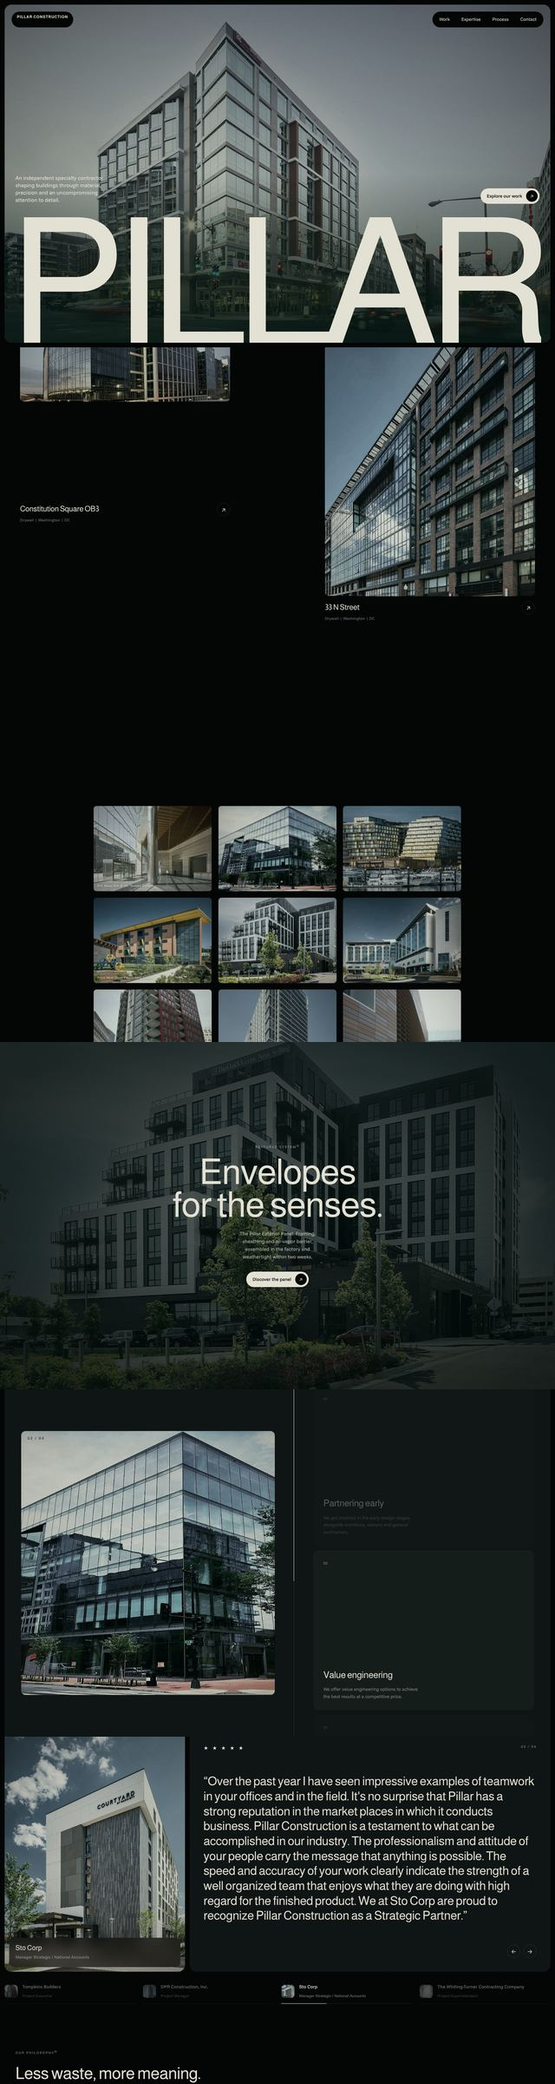
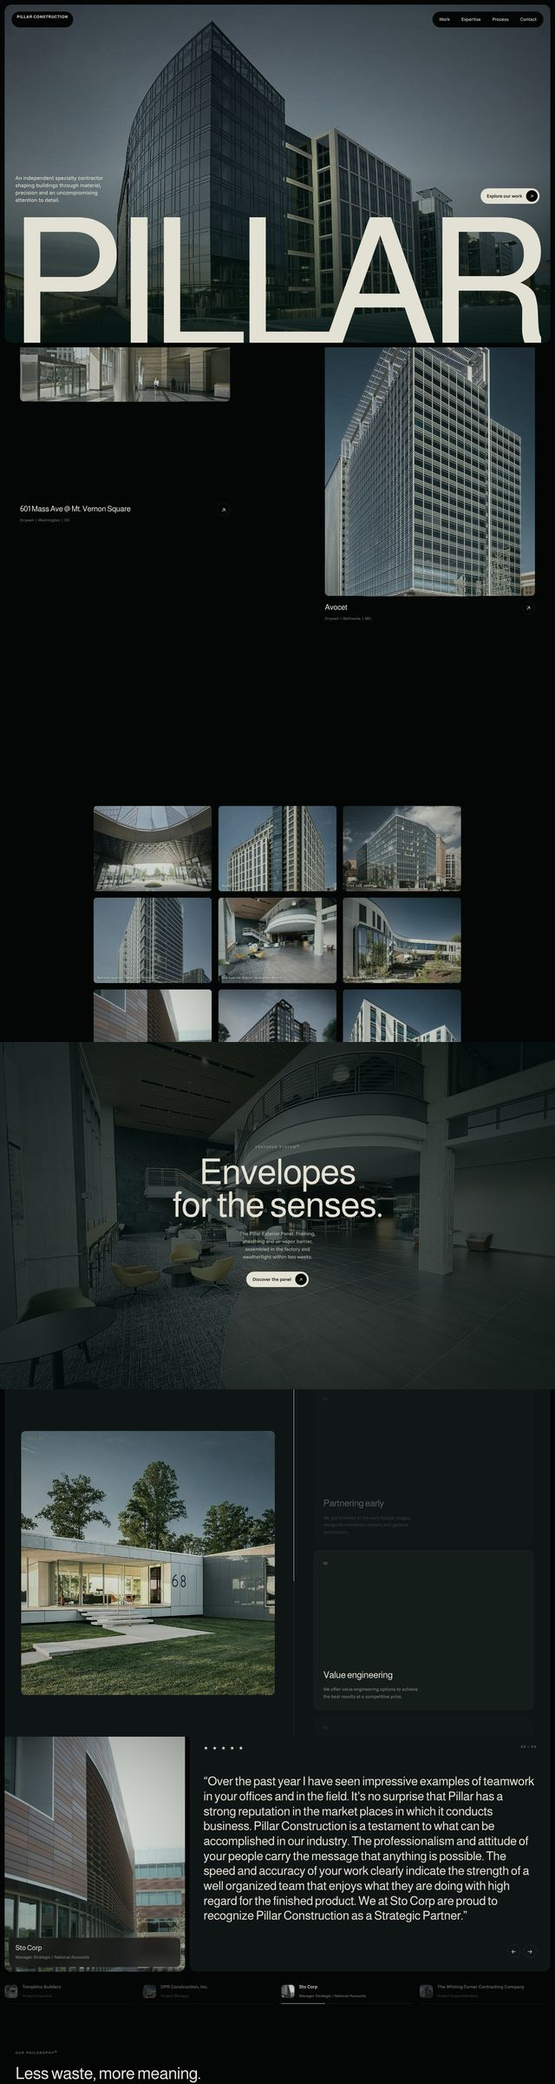
Use one curated photo set across all six options
Twenty minimal, high-resolution project photos chosen from the style picker
(sky verticals and interiors weighted first) plus the stair atrium. Galleries
take rotated slices of the set; service photos and heroes come from it too.

Claude-Session: https://claude.ai/code/session_019PWCajMM1o9e1Z4tehWbBf

diff --git a/02-verdigris.html b/02-verdigris.html
@@ -175,7 +175,7 @@ h1,h2,h3{margin:0;font-family:var(--disp);font-weight:400;text-wrap:balance;lett
 <main id="top">
   <section class="hero wrap">
     <div class="hcard">
-      <div class="bg"><img id="hbg" data-g="assets/img/p/V12-055D.jpg" data-eager alt="Hilton Garden Inn, West End"></div>
+      <div class="bg"><img id="hbg" data-g="assets/img/p/V17-004D.jpg" data-eager alt="Hilton Garden Inn, West End"></div>
       <div class="top"><span class="tag">PILLAR CONSTRUCTION</span><nav class="menu" aria-label="Main"><a href="#work">Work</a><a href="#expertise">Expertise</a><a href="#process">Process</a><a href="#contact">Contact</a></nav></div>
       <div class="mid"><p data-r="up">An independent specialty contractor shaping buildings through material, precision and an uncompromising attention to detail.</p><a class="pill" href="#work" data-mag="10">Explore our work <i>↗</i></a></div>
       <h1 class="word" aria-label="Pillar"><span>P</span><span>I</span><span>L</span><span>L</span><span>A</span><span>R</span></h1>
@@ -241,7 +241,7 @@ h1,h2,h3{margin:0;font-family:var(--disp);font-weight:400;text-wrap:balance;lett
   <section class="wrap" id="contact">
     <div class="cta">
       <div class="ccard"><div><div class="lab">Let's talk<sup>©</sup></div><h2 data-split="lines">Let's build something extraordinary.</h2></div><div><p>Every meaningful building begins with a conversation.</p><a class="pill" href="#foot" data-mag="10">Start the project <i>↗</i></a></div></div>
-      <div class="cimg" data-m="unveil zoomout" data-dir="left"><img data-g="assets/img/p/V16-046D.jpg" alt=""></div>
+      <div class="cimg" data-m="unveil zoomout" data-dir="left"><img data-g="assets/img/p/V13-007D.jpg" alt=""></div>
     </div>
     <footer class="foot" id="foot">
       <div class="cols">
@@ -281,14 +281,14 @@ $('#lit').innerHTML=$('#lit').textContent.split(' ').map(w=>`<span class="w">${w
 gsap.to('#lit .w',{opacity:1,stagger:.06,ease:'none',scrollTrigger:{trigger:'#lit',start:'top 80%',end:'bottom 40%',scrub:true}});
 
 /* works */
-const WK=pick(['V17-004D','V16-018D','The_Westerly_Waterfront_1','V18-012','V14-041','The_Wharf_1']);
+const WK=pick(['V13-007D', '8521Rt', 'V18-002R', '7655Rt', 'The_Westerly_Waterfront_1', 'V17-007R']);
 $('#works').innerHTML=WK.map((p,i)=>`<button class="wk w${i+1}" data-lb="${p.id}" data-cursor="View"><div class="ph" data-m="unveil drift" data-dir="${['up','left','up','right','up','left'][i]}" data-delay="${(i%2)*.12}">${I(img(p.img),1200,p.n)}</div><div class="row"><div><h3>${esc(p.n)}</h3><small>${svcShort[p.s]}  |  ${esc(p.c)}  |  ${esc(p.st)}</small></div><span class="circ">↗</span></div></button>`).join('');
 
 /* each work drifts at its own pace and leans with the scroll speed */
 $$('#works .wk').forEach((w,i)=>{w.dataset.skew=.6;gsap.fromTo(w,{y:[40,120,60,140,30,90][i]},{y:-[40,120,60,140,30,90][i],ease:'none',scrollTrigger:{trigger:w,start:'top bottom',end:'bottom top',scrub:true}})});
 
 /* grid zoom: nine projects; the centre frame (the Exterior Panel) grows until it fills the screen, then the story lands on it */
-const GZ=pick(['V13-007D','V16-022','The_Wharf_1','V18-005R','EP_003','V17-030R','V14-025D','V16-035D','V12-026']);
+const GZ=pick(['The_Westerly_Waterfront_1', 'V17-007R', 'D06-014', 'V16-035D', 'Institute_for_Digital_Innovation_1', '8302Rt', 'V12-026', 'V16-047', 'College_Park_City_Hall_1']);
 $('#gz').innerHTML=GZ.map((p,i)=>`<button class="t ${i===4?'c':''}" data-lb="${p.id}" data-cursor="View">${I(img(p.img),i===4?0:700,p.n)}<span>${esc(p.n)}</span></button>`).join('');
 (()=>{const g=$('#gz'),c=g.children[4],others=[...g.children].filter((x,i)=>i!==4);gsap.set(g,{clearProps:'transform'});gsap.set(g,{xPercent:-50,yPercent:-50});
  const S=()=>Math.max(innerWidth/c.offsetWidth,innerHeight/c.offsetHeight)*1.02;
@@ -306,15 +306,15 @@ $('#gz').innerHTML=GZ.map((p,i)=>`<button class="t ${i===4?'c':''}" data-lb="${p
   .to({},{duration:.15});})();
 
 /* expertise cards: services with scope checklists */
-$('#egrid').innerHTML=D.services.slice(0,4).map((s,i)=>`<article class="ecard" data-r="up" style="--d:${i*.08}s"><div><div class="ic">${I(img(s.hero,'h'),200)}</div><h3>${esc(s.title.split(' / ')[0])}.</h3></div><ul>${s.scopes.slice(0,4).map(x=>`<li>${esc(x)}</li>`).join('')}</ul></article>`).join('');
+$('#egrid').innerHTML=D.services.slice(0,4).map((s,i)=>`<article class="ecard" data-r="up" style="--d:${i*.08}s"><div><div class="ic">${I(PX.svcImg(s),200)}</div><h3>${esc(s.title.split(' / ')[0])}.</h3></div><ul>${s.scopes.slice(0,4).map(x=>`<li>${esc(x)}</li>`).join('')}</ul></article>`).join('');
 
 $('.ecard.img').dataset.lb=PX.byImg['V13-007D'].id;
 
 /* process: sticky image swaps with active step */
-const STEPS=[['Partnering early','We get involved in the early design stages, alongside architects, owners and general contractors.','V13-030D'],
- ['Value engineering','We offer value engineering options to achieve the best results at a competitive price.','V16-022'],
- ['Planning the work','Estimators and project managers develop a plan, a sequence and a schedule the field can trust.','V17-012R'],
- ['Executing safely','Our crews deliver quality work safely, on time and under budget, from the slab edge to the punch list.','V18-043R']];
+const STEPS=[['Partnering early','We get involved in the early design stages, alongside architects, owners and general contractors.','8521Rt'],
+ ['Value engineering','We offer value engineering options to achieve the best results at a competitive price.','V18-002R'],
+ ['Planning the work','Estimators and project managers develop a plan, a sequence and a schedule the field can trust.','7655Rt'],
+ ['Executing safely','Our crews deliver quality work safely, on time and under budget, from the slab edge to the punch list.','The_Westerly_Waterfront_1']];
 $('#stick').innerHTML=STEPS.map((s,i)=>`<img data-g="${img(s[2])}" data-eager alt="">`).join('')+'<span class="sn" id="snum">01 / 04</span>';
 const swS=PX.swapper($('#stick'));
 $('#slist').innerHTML=STEPS.map((s,i)=>`<div class="st ${i?'':'on'}"><span class="n">0${i+1}</span><div><h3>${s[0]}</h3><p>${s[1]}</p></div></div>`).join('');
@@ -323,7 +323,7 @@ ScrollTrigger.create({trigger:'#steps',start:'top 50%',end:'bottom 70%',onUpdate
 gsap.set('#rail',{height:'var(--p)'});
 
 /* voices: tabs with auto-advance progress */
-const V=[1,4,26,30].map(i=>D.testimonials[i]);const VP=pick(['V14-025D','V16-035D','V18-020','VA_Hostpital_Fredericksburg_1']);let vi=0,vt;
+const V=[1,4,26,30].map(i=>D.testimonials[i]);const VP=pick(['Institute_for_Digital_Innovation_1', '8302Rt', 'V12-026', 'V16-047']);let vi=0,vt;
 $('#vph').insertAdjacentHTML('afterbegin',VP.map((p,i)=>I(img(p.img),900)).join(''));const swV=PX.swapper($('#vph'));
 $('#tabs').innerHTML=V.map((v,i)=>`<button type="button"><span class="av">${I(img(VP[i].img),120)}</span><span><b>${esc(v.by)}</b><small>${esc(v.role)}</small></span></button>`).join('');
 function showV(i){vi=(i+V.length)%V.length;const q=$('#vq');q.classList.add('out');setTimeout(()=>{q.textContent='“'+V[vi].q+'”';q.classList.remove('out')},350);

diff --git a/03-filmstrip.html b/03-filmstrip.html
@@ -152,7 +152,7 @@ textarea{min-height:90px;resize:vertical}
 
 <main id="top">
   <section class="hero">
-    <div class="bg"><img id="hbg" data-g="assets/img/p/V16-038.jpg" data-eager alt="Residential building at dusk"></div>
+    <div class="bg"><img id="hbg" data-g="assets/img/p/V17-007R.jpg" data-eager alt="Residential building at dusk"></div>
     <div class="t"><h1 data-split="lines">PILLAR<small>CONSTRUCTION.</small></h1></div>
     <div class="meta" data-r="fade" style="--d:.6s"><span>BASED IN ALEXANDRIA, VA</span><span>//</span><span>SINCE 1995</span></div>
     <p class="blurb" data-r="up" style="--d:.7s">Pillar builds interiors and envelopes that feel considered, look timeless, and work for the people inside them.</p>
@@ -193,9 +193,9 @@ textarea{min-height:90px;resize:vertical}
   <section class="ct wrap" id="contact">
     <div class="left">
       <div class="box"><div class="mono">Email</div><b id="em"></b></div>
-      <div class="im" data-m="unveil drift" data-dir="right"><img data-g="assets/img/p/V17-022.jpg" data-gw="900" alt=""></div>
+      <div class="im" data-m="unveil drift" data-dir="right"><img data-g="assets/img/p/7655Rt.jpg" data-gw="900" alt=""></div>
       <div class="box"><div class="mono">Phone</div><b id="ph"></b></div>
-      <div class="im" data-m="unveil drift" data-dir="left" data-delay=".1"><img data-g="assets/img/p/V16-003.jpg" data-gw="900" alt=""></div>
+      <div class="im" data-m="unveil drift" data-dir="left" data-delay=".1"><img data-g="assets/img/p/The_Westerly_Waterfront_1.jpg" data-gw="900" alt=""></div>
     </div>
     <div>
       <h2 data-split="lines">Let's work together.</h2>
@@ -237,7 +237,7 @@ gsap.to('#hbg',{yPercent:15,scale:1.12,ease:'none',scrollTrigger:hT});
 gsap.to('.hero .t',{yPercent:-70,letterSpacing:'.02em',opacity:.15,ease:'none',scrollTrigger:hT});
 
 /* filmstrip: scroll is the playhead. Frames swell continuously as they pass it; each photo pans inside its frame */
-const FS=pick(['V16-022','The_Wharf_1','V17-004D','V13-007D','V16-046D','V18-002R','V17-030R','EP_003','V16-018D','V14-041','V18-012','The_Westerly_Waterfront_1','V12-026','Institute_for_Digital_Innovation_1','V17-014D','V16-047','8302Rt','V19-019R','V18-005R','V17-009R']);
+const FS=pick(['7655Rt', 'The_Westerly_Waterfront_1', 'V17-007R', 'D06-014', 'V16-035D', 'Institute_for_Digital_Innovation_1', '8302Rt', 'V12-026', 'V16-047', 'College_Park_City_Hall_1', '8621Rt', 'EP_003', 'V19-019R', '8191Rt', 'Oakvile_Inova_1', 'V17-004D', 'Avocet_1', 'V13-007D', '8521Rt', 'V18-002R']);
 $('#strip').innerHTML=FS.map((p,i)=>`<div class="fr" data-i="${i}" data-lb="${p.id}">${I(img(p.img),900,p.n)}<i class="br a"></i><i class="br b"></i><i class="br c"></i><i class="br d"></i></div>`).join('');
 const film=$('#film'),N=FS.length;film.style.height=(N*28+100)+'vh';
 const frs=$$('.fr'),fims=frs.map(f=>f.querySelector('img'));
@@ -270,15 +270,15 @@ addEventListener('resize',()=>layout(pos));
 /* accordion */
 $('#acc').innerHTML=D.services.map((s,i)=>{const n=D.projects.filter(p=>p.s===s.id).length;return `<div class="ai ${i?'':'open'}">
  <button type="button" aria-expanded="${!i}"><h3>${esc(s.title.replace(' / General Contracting','').replace('Exterior Finishes / ',''))}</h3><span class="pm">+</span></button>
- <div class="body"><div><div class="in"><div><p>${esc(s.body[0]||s.short)}</p><ul>${s.scopes.slice(0,6).map(x=>`<li>${esc(x)}</li>`).join('')}</ul><div class="from">PORTFOLIO<b>${n} projects</b></div></div><div class="ph">${I(img(s.hero,'h'),500)}</div></div></div></div></div>`}).join('');
+ <div class="body"><div><div class="in"><div><p>${esc(s.body[0]||s.short)}</p><ul>${s.scopes.slice(0,6).map(x=>`<li>${esc(x)}</li>`).join('')}</ul><div class="from">PORTFOLIO<b>${n} projects</b></div></div><div class="ph">${I(PX.svcImg(s),500)}</div></div></div></div></div>`}).join('');
 $$('.ai>button').forEach(b=>b.onclick=()=>{const it=b.parentElement,o=!it.classList.contains('open');$$('.ai').forEach(x=>{x.classList.remove('open');x.firstElementChild.setAttribute('aria-expanded',false)});if(o){it.classList.add('open');b.setAttribute('aria-expanded',true);
   // the service photo opens with its panel: the frame wipes up while the picture settles
   if(!PX.reduced){const ph=it.querySelector('.ph');ph.animate([{clipPath:'inset(100% 0% 0% 0%)'},{clipPath:'inset(0% 0% 0% 0%)'}],{duration:1100,delay:150,easing:'cubic-bezier(.76,0,.24,1)',fill:'backwards'});
    ph.querySelector('img').animate([{transform:'scale(1.4)'},{transform:'none'}],{duration:1600,delay:150,easing:'cubic-bezier(.16,1,.3,1)',fill:'backwards'})}}});
-$$('.ai .ph').forEach((ph,i)=>{const s=D.services[i],p=PX.byImg[s.gallery[0]]||D.projects.find(x=>x.s===s.id);if(p)ph.dataset.lb=p.id});
+$$('.ai .ph').forEach((ph,i)=>{const s=D.services[i],p=PX.svcP(s)||D.projects.find(x=>x.s===s.id);if(p)ph.dataset.lb=p.id});
 
 /* about columns: infinite opposite drift, boosted by scroll velocity */
-const C1=pick(['V16-012','V12-034','V14-028','V15-012','V16-051D','V13-046','V17-002R','V11-060']),C2=pick(['V14-014','V08-002','Institute_for_Digital_Innovation_1','V13-001D','VA_Hostpital_Fredericksburg_1','V13-007D','V11-027D','M06-010']);
+const C1=pick(['V16-035D', 'Institute_for_Digital_Innovation_1', '8302Rt', 'V12-026', 'V16-047', 'College_Park_City_Hall_1', '8621Rt', 'EP_003']),C2=pick(['V16-047', 'College_Park_City_Hall_1', '8621Rt', 'EP_003', 'V19-019R', '8191Rt', 'Oakvile_Inova_1', 'V17-004D']);
 const fill=(el,L)=>el.innerHTML=[...L,...L].map(p=>`<div class="t">${I(img(p.img),300,p.n)}</div>`).join('');fill($('#c1'),C1);fill($('#c2'),C2);
 $('#stats').innerHTML=[[PX.stats.years,'Years in business'],[PX.stats.projects,'Portfolio projects'],[PX.stats.offices,'Offices']].map(s=>`<div><b data-count="${s[0]}">0</b><span>${s[1]}</span></div>`).join('');
 (()=>{let y1=0,y2=0,v=0;const c1=$('#c1'),c2=$('#c2');PX.lenis?.on('scroll',e=>v=e.velocity);

diff --git a/06-nord.html b/06-nord.html
@@ -159,12 +159,12 @@ h1,h2,h3{margin:0;font-weight:500;letter-spacing:-.04em;text-wrap:balance}
       <p class="txt" data-r="up">Founded in 1995, Pillar is driven by a deep respect for craft and the rhythm of urban building. We focus on interiors and envelopes that enhance city landscapes, combining simplicity, functionality and a durable finish.</p>
       <p class="txt" data-r="up">Guided by <b>Raja Khoury</b> and <b>Mike Chalabi</b>, the team works closely with owners, developers and general contractors to shape the buildings people live and work in.</p>
       <div class="nums" id="nums"></div></div>
-    <div class="col2"><div class="ph a" data-m="unveil drift" data-dir="left"><img data-g="assets/img/p/V13-001D.jpg" data-gw="1000" alt=""></div><div class="ph b" data-m="unveil drift" data-dir="right" data-delay=".15"><img data-g="assets/img/p/V14-014.jpg" data-gw="800" alt=""></div></div>
+    <div class="col2"><div class="ph a" data-m="unveil drift" data-dir="left"><img data-g="assets/img/p/College_Park_City_Hall_1.jpg" data-gw="1000" alt=""></div><div class="ph b" data-m="unveil drift" data-dir="right" data-delay=".15"><img data-g="assets/img/p/8621Rt.jpg" data-gw="800" alt=""></div></div>
   </section>
 
   <section class="facade" aria-label="Statement">
     <div class="stage">
-      <div class="bg" id="fmask"><img id="fbg" data-g="assets/img/p/V16-022.jpg" data-eager alt=""></div><div class="full" id="ffull"><img id="ffimg" data-g="assets/img/p/V16-022.jpg" data-eager alt=""></div><div class="wsh" id="fwsh"></div>
+      <div class="bg" id="fmask"><img id="fbg" data-g="assets/img/p/Oakvile_Inova_1.jpg" data-eager alt=""></div><div class="full" id="ffull"><img id="ffimg" data-g="assets/img/p/Oakvile_Inova_1.jpg" data-eager alt=""></div><div class="wsh" id="fwsh"></div>
       <span class="lbl" id="flbl">Keep scrolling</span>
       <h2 id="fh">Crafting buildings where natural light meets timeless, functional design.</h2>
     </div>
@@ -223,7 +223,7 @@ gsap.registerPlugin(ScrollTrigger);
 $('#mb').onclick=()=>{const o=$('#menu').classList.toggle('open');$('#mb').setAttribute('aria-expanded',o);$('#mb').textContent=o?'CLOSE':'MENU'};$$('#menu a').forEach(a=>a.onclick=()=>{$('#menu').classList.remove('open');$('#mb').textContent='MENU'});
 
 /* hero slideshow */
-const HS=pick(['V16-051D','V17-004D','V16-022']);let hi=0,ht;
+const HS=pick(['College_Park_City_Hall_1', '8621Rt', 'EP_003']);let hi=0,ht;
 $('#hero').insertAdjacentHTML('afterbegin',HS.map((p,i)=>`<div class="hs ${i?'':'on'}" data-lb="${p.id}">${I(img(p.img),0,p.n).replace('<img','<img data-eager')}</div>`).join(''));
 function hs(i){hi=(i+HS.length)%HS.length;$$('.hs').forEach((s,j)=>s.classList.toggle('on',j===hi));$('#hc').textContent=PX.pad(hi+1);$('#ht').textContent=PX.pad(HS.length);$('#hnm').textContent=HS[hi].n;clearTimeout(ht);ht=setTimeout(()=>hs(hi+1),6000)}
 $('#hn').onclick=e=>{e.stopPropagation();hs(hi+1)};hs(0);
@@ -233,7 +233,7 @@ gsap.to('#hero .hs img',{yPercent:12,ease:'none',scrollTrigger:hT});
 gsap.to('#hero h1',{yPercent:-35,letterSpacing:'.01em',ease:'none',scrollTrigger:hT});
 
 /* intro: photos stack into a pile, then lift away */
-(()=>{const S=pick(['V16-022','V18-002R','V13-007D','V17-030R','V12-055D','V14-041']);const box=$('#intro');
+(()=>{const S=pick(['8191Rt', 'Oakvile_Inova_1', 'V17-004D', 'Avocet_1', 'V13-007D', '8521Rt']);const box=$('#intro');
  if(PX.reduced){box.remove();return}
  PX.lenis?.stop();
  box.innerHTML=S.map(p=>`<div class="card"><img src="${img(p.img)}" alt=""></div>`).join('');
@@ -258,13 +258,13 @@ gsap.timeline({defaults:{ease:'none'},scrollTrigger:{trigger:'.facade',start:'to
  .to({},{duration:.13});
 
 /* awards with hover image */
-const AW=D.awards.flatMap(a=>a.items.map(it=>({y:a.y,t:it[0],d:it[1]}))),AIM=pick(['V16-022','V17-004D','V18-002R','V16-018D','EP_003','The_Wharf_1','V17-030R','V13-007D']);
+const AW=D.awards.flatMap(a=>a.items.map(it=>({y:a.y,t:it[0],d:it[1]}))),AIM=pick(['V13-007D', '8521Rt', 'V18-002R', '7655Rt', 'The_Westerly_Waterfront_1', 'V17-007R', 'D06-014', 'V16-035D']);
 $('#arows').innerHTML=AW.map((a,i)=>`<div class="ar ${i>9?'x':''}" data-img="${img(AIM[i%AIM.length].img)}" data-r="up" style="--d:${(i%10)*.04}s"><span>${esc(a.t)}</span><span>${esc(a.d)}</span><span>/ ${a.y}</span></div>`).join('');
 PX.hoverPreview($$('.ar'),r=>r.dataset.img,{dx:120});
 $('#awm').onclick=()=>{const o=$('#awards').classList.toggle('all');$('#awm').textContent=o?'Show fewer':'Show all honours';ScrollTrigger.refresh()};
 
 /* services */
-$('#sph').innerHTML=D.services.map(s=>I(img(s.hero,'h'),1200)).join('');const swP=PX.swapper($('#sph'));
+$('#sph').innerHTML=D.services.map(s=>I(PX.svcImg(s),1200)).join('');const swP=PX.swapper($('#sph'));
 $('#slist').innerHTML=D.services.map((s,i)=>`<div class="sr ${i?'':'on'}" data-i="${i}"><span class="n">/ 0${i+1}</span><h3>${esc(s.title)}</h3><p>${esc(s.short)}</p></div>`).join('');
 let sv=0;const pickR=i=>{if(i===sv)return;sv=i;$$('.sr').forEach((x,j)=>x.classList.toggle('on',j===i));swP(i)};
 $$('.sr').forEach(r=>r.addEventListener('mouseenter',()=>pickR(+r.dataset.i)));

diff --git a/01-anatomy.html b/01-anatomy.html
@@ -257,7 +257,7 @@ h1,h2,h3{margin:0;font-weight:400;text-wrap:balance}
   </section>
 
   <section class="end wrap" id="end" data-m="expand" data-end="top top" data-r="22">
-    <div class="bg"><img data-g="assets/img/p/V17-030R.jpg" alt=""></div>
+    <div class="bg"><img data-g="assets/img/p/Oakvile_Inova_1.jpg" alt=""></div>
     <div class="in">
       <h2>Build,<br>considered.</h2>
       <p><b>Write</b><span id="em" style="user-select:all"></span><br><span id="ph"></span></p>
@@ -284,7 +284,7 @@ $('#mb').onclick=()=>{const o=$('#menu').classList.toggle('open');$('#mb').setAt
 $$('#menu a').forEach(a=>a.addEventListener('click',()=>$('#menu').classList.remove('open')));
 
 /* cloud: a walk through the portfolio. Each photograph hangs at its own depth; scroll moves the camera forward */
-const CL=pick(['V13-007D','V16-022','The_Westerly_Waterfront_1','V18-012','V16-046D','V12-055D','V17-014D','8191Rt','V16-038','Reunion_Sq_1','V19-019R','V16-051D','V14-041','V18-020']);
+const CL=pick(['Oakvile_Inova_1', 'V17-004D', 'Avocet_1', 'V13-007D', '8521Rt', 'V18-002R', '7655Rt', 'The_Westerly_Waterfront_1', 'V17-007R', 'D06-014', 'V16-035D', 'Institute_for_Digital_Innovation_1', '8302Rt', 'V12-026']);
 const SPOT=[[-34,-20,300],[40,24,260],[-42,26,240],[36,-30,280],[-46,-2,230],[30,34,300],[-20,-38,240],[46,6,230],[-36,34,260],[12,-40,280],[-40,-30,250],[38,-14,300],[-26,30,270],[0,0,440]];
 $('#space').insertAdjacentHTML('beforeend',CL.map((p,i)=>`<button class="c" data-lb="${p.id}" data-cursor="View" style="width:${SPOT[i][2]}px;aspect-ratio:${i%3?'4/3':'3/4'}" aria-label="${esc(p.n)}">${I(img(p.img),i===CL.length-1?1600:700,p.n)}</button>`).join(''));
 $('#ccn').textContent='OF '+CL.length;
@@ -310,7 +310,7 @@ $('#ccn').textContent='OF '+CL.length;
  addEventListener('resize',render);render();})();
 
 /* slab: pinned; each project wipes up over the last as you scroll, the one beneath sinks away */
-const SL=pick(['V17-004D','EP_003','V16-018D','V18-005R','Institute_for_Digital_Innovation_1']);
+const SL=pick(['8521Rt', 'V18-002R', '7655Rt', 'The_Westerly_Waterfront_1', 'V17-007R']);
 $('#slab').insertAdjacentHTML('afterbegin',SL.map((p,i)=>`<div class="sl" data-lb="${p.id}" data-cursor="Open">${I(img(p.img),0,p.n)}<div class="cap"><h3>${esc(p.n)}</h3><p>${esc(loc(p))} · ${svcShort[p.s]}</p></div></div>`).join(''));
 $('#st').textContent=PX.pad(SL.length);
 const slT=gsap.timeline({defaults:{ease:'none'},scrollTrigger:{trigger:'.model',start:'top top',end:()=>'+='+innerHeight*(SL.length-1)*.9,pin:true,scrub:.5,
@@ -327,7 +327,7 @@ $$('#slab .ctr button').forEach(b=>b.onclick=e=>{e.stopPropagation();const st=sl
  ScrollTrigger.create({trigger:c,start:'top 85%',end:'bottom 15%',onUpdate:s=>{if(!man)at(92-84*s.progress)}});at(92);})();
 
 /* wordmark window grows to fill the screen; the photographs it holds spill out past the edges */
-const FL=pick(['V16-022','V18-002R','The_Wharf_1','V12-055D','V16-046D','V13-007D']);
+const FL=pick(['V17-007R', 'D06-014', 'V16-035D', 'Institute_for_Digital_Innovation_1', '8302Rt', 'V12-026']);
 const FD=[[-38,-30,-8],[36,-34,6],[-44,26,5],[42,28,-6],[-6,-44,3],[8,44,-4]];
 $('#flys').innerHTML=FL.map(p=>`<div class="fly">${I(img(p.img),500)}</div>`).join('');
 const wmT=gsap.timeline({scrollTrigger:{trigger:'.wm',start:'top top',end:'bottom bottom',scrub:true}})
@@ -341,7 +341,7 @@ $$('#flys .fly').forEach((f,i)=>{const [x,y,r]=FD[i];
 gsap.fromTo('#wmrow',{xPercent:8},{xPercent:-8,ease:'none',scrollTrigger:{trigger:'.wm',start:'top bottom',end:'top top',scrub:true}});
 
 /* service pairs: pinned; scrolling slides through the five services, each photo drifting inside its frame */
-$('#track').innerHTML=D.services.map((s,i)=>{const ps=D.projects.filter(p=>p.s===s.id);const p=PX.byImg[s.gallery[0]]||ps[0];return `<div class="pair">
+$('#track').innerHTML=D.services.map((s,i)=>{const ps=D.projects.filter(p=>p.s===s.id);const p=PX.svcP(s)||ps[0];return `<div class="pair">
  <div class="tx"><div><div class="lab" style="opacity:.6;margin-bottom:18px">${svcShort[s.id]} · ${ps.length} projects</div><h3>${esc(s.title)}</h3><ul>${s.scopes.slice(0,8).map(x=>`<li>${esc(x)}</li>`).join('')}</ul></div>
  <div class="row"><p>${esc(s.body[0]||s.short)}</p><span class="n">0${i+1}</span></div></div>
  <button class="ph" data-lb="${p.id}" data-cursor="View">${I(img(p.img),1200,p.n)}<span>${esc(p.n)}</span></button></div>`}).join('');

diff --git a/05-studio.html b/05-studio.html
@@ -188,7 +188,7 @@ h1,h2,h3{margin:0;font-weight:600;letter-spacing:-.03em;text-wrap:balance}
   <section class="cta wrap" id="contact">
     <div class="l"><div><h2 class="up" data-split="lines">Start a thoughtful build process</h2><p>Let's work together on a building that reflects your vision, guided by a process focused on detail, balance, and long-term performance.</p><a class="chip dk" href="#foot"><i>→</i>Get In Touch With Us</a></div>
       <div><p style="margin:0">Partnering with owners and builders since 1995</p><div class="avs" id="avs"></div></div></div>
-    <div class="big" data-m="unveil drift" data-dir="down"><img data-g="assets/img/p/V16-018D.jpg" alt="Glass tower"></div>
+    <div class="big" data-m="unveil drift" data-dir="down"><img data-g="assets/img/p/8302Rt.jpg" alt="Glass tower"></div>
   </section>
 </main>
 
@@ -235,7 +235,7 @@ gsap.to('.wm .b',{xPercent:-14,skewX:-8,ease:'none',scrollTrigger:hT});
 $('#stats').innerHTML=[[stats.years,'+','Years of experience delivering finish work with clarity and care.'],[stats.offices,'','Regional offices supporting precise execution across four markets.'],[stats.projects,'+','Projects shaped by careful planning and refined execution.'],[stats.honours,'','Industry honours earned through craft, safety and consistent quality.']].map((s,i)=>`<div data-r="up" style="--d:${i*.08}s"><b><span data-count="${s[0]}">0</span> ${s[1]}</b><span class="cap">${s[2]}</span></div>`).join('');
 
 /* slider: pinned. Each project wipes in from the right over the last, which is pushed aside; the specs ride in with it */
-const SL=pick(['V17-004D','The_Wharf_1','V18-002R','V16-022','V17-030R','EP_003']),NS=SL.length;
+const SL=pick(['8302Rt', 'V12-026', 'V16-047', 'College_Park_City_Hall_1', '8621Rt', 'EP_003']),NS=SL.length;
 $('#projects').insertAdjacentHTML('afterbegin',SL.map((p,i)=>`<div class="sl" data-lb="${p.id}" data-cursor="Open">${I(img(p.img),0,p.n).replace('<img','<img data-eager')}<div class="tx"><h3>${esc(p.n)}</h3><dl><div><dd>${esc(loc(p))}</dd><dt>Location</dt></div><div><dd>${svcShort[p.s]}</dd><dt>Scope</dt></div><div><dd>${esc((p.g||'—').replace(/,? (Inc|LLC|L\.L\.C)\.?/,''))}</dd><dt>Builder</dt></div></dl><span class="chip"><i>→</i>See Project</span></div></div>`).join(''));
 const sls=$$('#projects .sl');let si=-1;
 const meta=i=>{if(i===si)return;si=i;$('#smeta').innerHTML=`${esc(SV[SL[i].s].title)}<br>${PX.pad(i+1)} / ${PX.pad(NS)}`};meta(0);
@@ -256,14 +256,14 @@ $('#sp').onclick=e=>{e.stopPropagation();goS(-1)};$('#sn').onclick=e=>{e.stopPro
 /* services: the scroll walks through the four cards; each one wipes its photograph over the last (hover works too) */
 const SVS=D.services.slice(0,4);
 $('#cards').innerHTML=SVS.map((s,i)=>`<div class="cd" data-i="${i}" data-r="up" style="--d:${i*.06}s"><span class="n">0${i+1}</span><div><h3>${esc(s.title.split(' / ')[0])}</h3><p>${esc(s.scopes.slice(0,3).join(', '))}.</p></div></div>`).join('');
-$('#sbig').innerHTML=SVS.map(s=>I(img(s.hero,'h'),1400,s.title)).join('')+'<span class="lbl" id="slbl"></span>';
+$('#sbig').innerHTML=SVS.map(s=>I(PX.svcImg(s),1400,s.title)).join('')+'<span class="lbl" id="slbl"></span>';
 const swB=PX.swapper($('#sbig'));let ci=-1;
 const pickC=i=>{if(i===ci)return;ci=i;$$('.cd').forEach((c,j)=>c.classList.toggle('on',j===i));swB(i);$('#slbl').textContent=`${PX.pad(i+1)} — ${SVS[i].title}`};pickC(0);
 $$('.cd').forEach(c=>c.addEventListener('mouseenter',()=>pickC(+c.dataset.i)));
 ScrollTrigger.create({trigger:'#services',start:'top 55%',end:'bottom 70%',onUpdate:s=>pickC(Math.min(3,Math.floor(s.progress*4)))});
 
 /* stories */
-const ST=pick(['V16-046D','V12-055D','V13-007D']);
+const ST=pick(['8621Rt', 'EP_003', 'V19-019R']);
 $('#sc').innerHTML=ST.map((p,i)=>`<button class="sv" data-lb="${p.id}" data-cursor="View" data-m="unveil drift" data-delay="${i*.12}">${I(img(p.img),900,p.n)}<span class="c">${svcShort[p.s]}</span><div class="bt"><div><small>${esc(loc(p))}</small><h3>${esc(p.n)}</h3></div><span class="go">↗</span></div></button>`).join('');
 
 /* faq */

diff --git a/04-monolith.html b/04-monolith.html
@@ -249,7 +249,7 @@ $('#hon').textContent=PX.stats.honours;
 gsap.fromTo('#stk>img',{scale:1.3},{scale:1,ease:'none',scrollTrigger:{trigger:'.about',start:'top bottom',end:'bottom bottom',scrub:true}});
 
 /* services: rows switch the thumbnail stack */
-$('#thumbs').innerHTML=`<div class="big">${D.services.map((s,i)=>I(img(s.hero,'h'),1400,s.title)).join('')}</div>`+D.services.slice(0,3).map((s,i)=>`<div class="t ${i?'':'on'}">${I(img(s.gallery[1]),400)}</div>`).join('');
+$('#thumbs').innerHTML=`<div class="big">${D.services.map((s,i)=>I(PX.svcImg(s),1400,s.title)).join('')}</div>`+D.services.slice(0,3).map((s,i)=>`<div class="t ${i?'':'on'}">${I(PX.svcImg(s,1),400)}</div>`).join('');
 $('#srows').innerHTML=D.services.map((s,i)=>`<div class="srow ${i?'':'on'}" data-i="${i}" tabindex="0"><h3>${esc(s.title)}</h3><p>${esc(s.short)}</p></div>`).join('');
 const swB=PX.swapper($('#thumbs .big'));
 const pickS=i=>{$$('.srow').forEach((r,j)=>r.classList.toggle('on',j===i));swB(i);$$('#thumbs .t').forEach((t,j)=>t.classList.toggle('on',j===i%3))};
@@ -257,7 +257,7 @@ $$('.srow').forEach(r=>{r.addEventListener('mouseenter',()=>pickS(+r.dataset.i))
 $$('.srow').forEach(r=>ScrollTrigger.create({trigger:r,start:'top 55%',end:'bottom 55%',onToggle:s=>s.isActive&&pickS(+r.dataset.i)}));
 
 /* reel: pinned horizontal travel */
-const RL=pick(['V17-004D','V16-018D','The_Wharf_1','V18-002R','EP_003','V12-055D','V17-030R','V13-007D','The_Westerly_Waterfront_1','V18-005R']);
+const RL=pick(['D06-014', 'V16-035D', 'Institute_for_Digital_Innovation_1', '8302Rt', 'V12-026', 'V16-047', 'College_Park_City_Hall_1', '8621Rt', 'EP_003', 'V19-019R']);
 $('#row').innerHTML=RL.map((p,i)=>`<button class="card" data-lb="${p.id}" data-cursor="Open"><div class="ph">${I(img(p.img),1000,p.n)}</div><div class="m"><h3>${esc(p.n)}</h3><span class="n">${PX.pad(i+1)} — ${esc(p.st)}</span></div></button>`).join('');
 $('#reel').style.height='420vh';
 const rt=gsap.to('#row',{x:()=>-($('#row').scrollWidth-innerWidth+24),ease:'none',scrollTrigger:{trigger:'#reel',start:'top top',end:'bottom bottom',scrub:.6,invalidateOnRefresh:true,onUpdate:s=>{$('#rp').style.width=(s.progress*100)+'%';$('#rc').textContent=`${PX.pad(Math.min(RL.length,1+Math.floor(s.progress*RL.length)))} / ${PX.pad(RL.length)}`}}});

diff --git a/assets/core.js b/assets/core.js
@@ -37,6 +37,10 @@
     people: D.team.length,
     partners: D.testimonials.length,
   };
+  /* one shared photo set for every option, chosen for quality and minimal composition */
+  const SET = ["Oakvile_Inova_1", "V17-004D", "Avocet_1", "V13-007D", "8521Rt", "V18-002R", "7655Rt", "The_Westerly_Waterfront_1", "V17-007R", "D06-014", "V16-035D", "Institute_for_Digital_Innovation_1", "8302Rt", "V12-026", "V16-047", "College_Park_City_Hall_1", "8621Rt", "EP_003", "V19-019R", "8191Rt"];
+  const svcImg = (s, k = 0) => `assets/img/p/${SET[(D.services.indexOf(s) * 4 + k * 2 + 1) % SET.length]}.jpg`;
+  const svcP = (s) => byImg[SET[(D.services.indexOf(s) * 4 + 1) % SET.length]];
   const loc = (p) => [p.c, p.st].filter(Boolean).join(', ');
   const img = (id, k = 'p') => `assets/img/${k}/${id}.jpg`;
   const pick = (ids) => ids.map((i) => byImg[i]).filter(Boolean);
@@ -668,5 +672,5 @@
     });
   }
 
-  window.PX = { D, SV, stats, loc, img, pick, byImg, esc, svcShort, pad, OPTIONS, optHref, init, Grade, gradeImages, reveal, motion, splitChars, leave, frameOf, swapper, hdrift, split, counters, parallax, hoverPreview, cursor, magnetic, tilt, LB, clock, form, copy, filterable, logo, scrollTo, get lenis() { return lenis; }, reduced, $, $$ };
+  window.PX = { D, SV, SET, svcImg, svcP, stats, loc, img, pick, byImg, esc, svcShort, pad, OPTIONS, optHref, init, Grade, gradeImages, reveal, motion, splitChars, leave, frameOf, swapper, hdrift, split, counters, parallax, hoverPreview, cursor, magnetic, tilt, LB, clock, form, copy, filterable, logo, scrollTo, get lenis() { return lenis; }, reduced, $, $$ };
 })();
